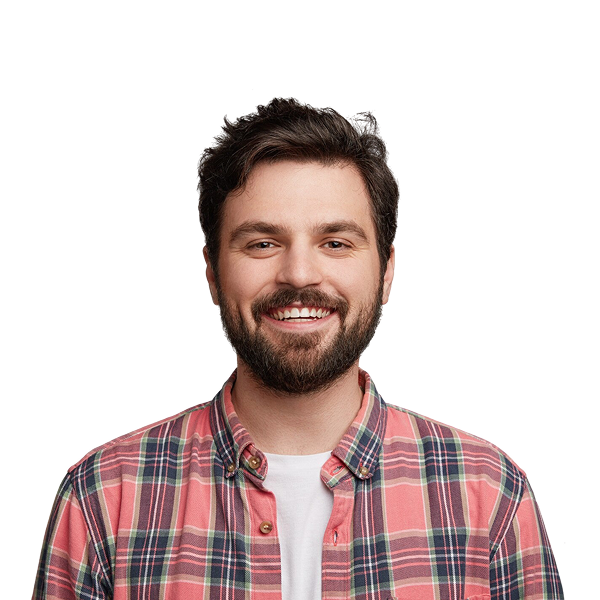
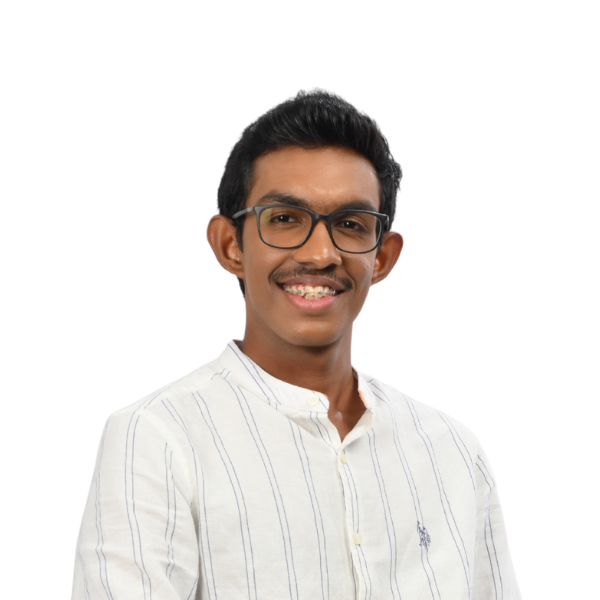
team

diff --git a/our-team-page-01.html b/our-team-page-01.html
@@ -8,7 +8,7 @@ Head links
 
 <meta charset="UTF-8" />
 <meta name="viewport" content="width=device-width, initial-scale=1.0" />
-<meta name="title" content="NextSaaS - Software, SaaS & Startup Tailwind Template" />
+<meta name="title" content="AI-powered food waste reduction and smart inventory management system. />
 <meta
   name="description"
   content="NextSaaS - the ultimate collection of 35+ premium HTML templates for SaaS businesses and startups. Built with Tailwind CSS, featuring responsive design, authentication flows, pricing pages, and modern UI components. Perfect for web applications and digital products."
@@ -40,7 +40,7 @@ Head links
 <!-- Open Graph / Facebook -->
 <meta property="og:type" content="website" />
 <meta property="og:url" content="index.html" />
-<meta property="og:title" content="NextSaaS - Software, SaaS & Startup Tailwind Template" />
+<meta property="og:title" content="AI-powered food waste reduction and smart inventory management system. />
 <meta
   property="og:description"
   content="NextSaaS - the ultimate collection of 35+ premium HTML templates for SaaS businesses and startups. Built with Tailwind CSS, featuring responsive design, authentication flows, pricing pages, and modern UI components."
@@ -51,7 +51,7 @@ Head links
 />
 <meta property="og:image:width" content="1200" />
 <meta property="og:image:height" content="630" />
-<meta property="og:image:alt" content="NextSaaS - Software, SaaS & Startup Tailwind Template" />
+<meta property="og:image:alt" content="AI-powered food waste reduction and smart inventory management system. />
 <meta property="og:site_name" content="NextSaaS" />
 <meta property="og:locale" content="en_US" />
 <meta property="article:author" content="NextSaaS" />
@@ -62,7 +62,7 @@ Head links
 <meta name="twitter:site" content="@NextSaaS" />
 <meta name="twitter:creator" content="@NextSaaS" />
 <meta name="twitter:url" content="index.html" />
-<meta name="twitter:title" content="NextSaaS - Software, SaaS & Startup Tailwind Template" />
+<meta name="twitter:title" content="AI-powered food waste reduction and smart inventory management system. />
 <meta
   name="twitter:description"
   content="NextSaaS - the ultimate collection of 35+ premium HTML templates for SaaS businesses and startups. Built with Tailwind CSS, featuring responsive design, authentication flows, pricing pages, and modern UI components."
@@ -71,7 +71,7 @@ Head links
   name="twitter:image"
   content="../images.prismic.io/staticmania/aPD-K55xUNkB2D2X_og-image.jpg"
 />
-<meta name="twitter:image:alt" content="NextSaaS - Software, SaaS & Startup Tailwind Template" />
+<meta name="twitter:image:alt" content="AI-powered food waste reduction and smart inventory management system. />
 
 <!-- Additional SEO Meta Tags -->
 <meta name="theme-color" content="#000000" />
@@ -82,7 +82,7 @@ Head links
 <meta name="application-name" content="NextSaaS" />
 <meta
   name="msapplication-tooltip"
-  content="NextSaaS - Software, SaaS & Startup Tailwind Template"
+  content="AI-powered food waste reduction and smart inventory management system.
 />
 <meta name="msapplication-starturl" content="/" />
 <!-- Favicon and Icons -->
@@ -3711,8 +3711,7 @@ Team Members section
       <div class="max-w-[620px] mx-auto space-y-3">
         <h2 data-ns-animate data-delay="0.2">Our innovative, dynamic and talented team</h2>
         <p data-ns-animate data-delay="0.3">
-          Our innovative, dynamic, and talented team is the driving force behind our success. Each
-          member brings a unique blend of expertise
+          SDGP Group CS-87 | Students at Informatics Institute of Technology (IIT)
         </p>
       </div>
     </div>
@@ -3733,10 +3732,10 @@ Team Members section
           >
             <div class="text-center">
               <h3 class="text-heading-5 font-normal text-secondary dark:text-accent">
-                <a href="team-details-page.html"> John Smith </a>
+                <a href="#"> Senuth Dilnada </a>
               </h3>
               <p class="text-tagline-2 font-normal text-secondary/40 dark:text-accent/40">
-                New York
+                Project Lead
               </p>
             </div>
             <!-- =========================
